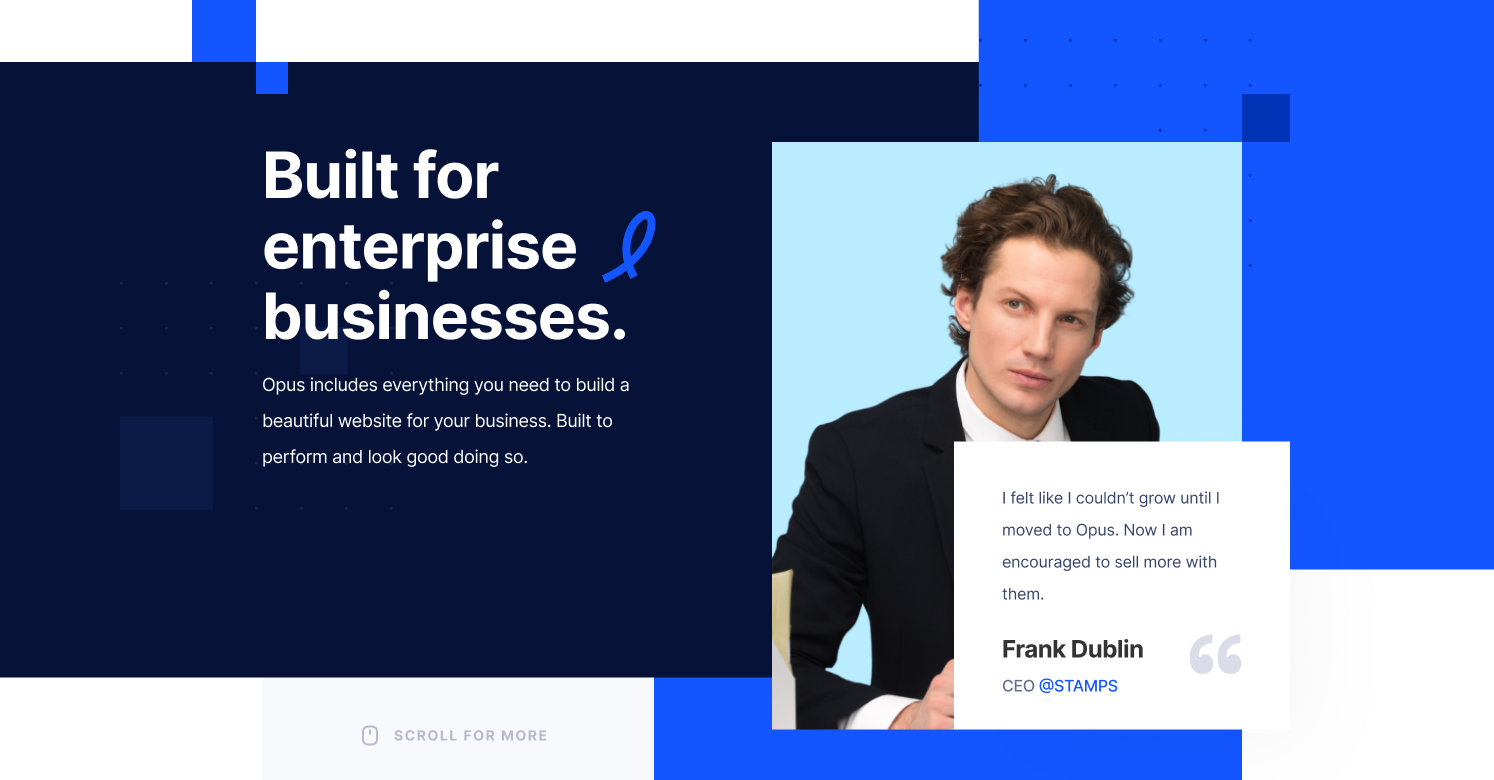
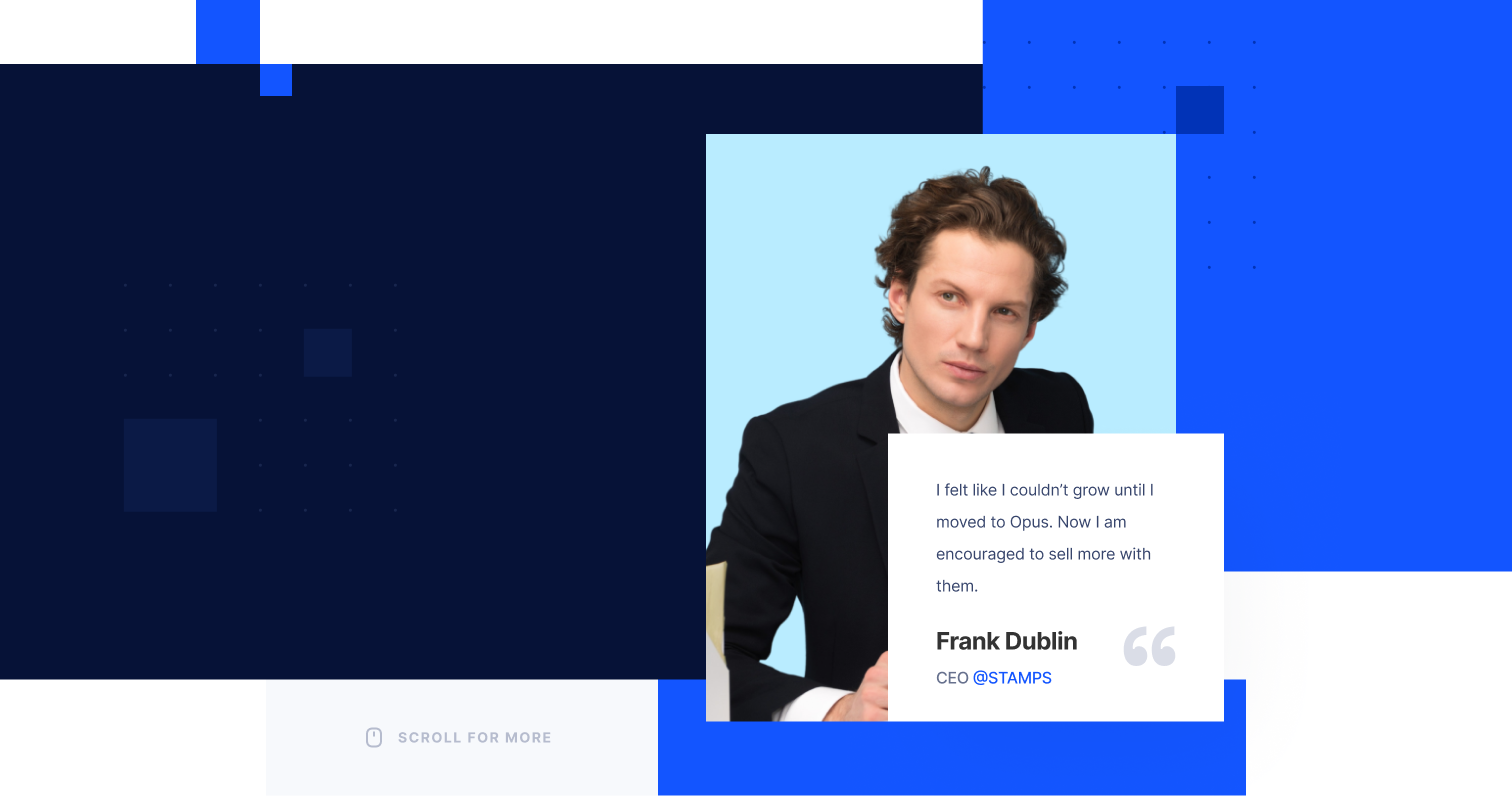
Update 5 files

diff --git a/src/Banner.js b/src/Banner.js
@@ -1,40 +1,55 @@
-import React from 'react'
-import banner from './images/banner.png'
+import React from "react";
+import banner from "./images/banner.png";
 
-import './banner.css';
+import "./banner.css";
 
 function Banner() {
-    return (
-        <div className='banner-head'>
-            <div className="banner">
-                <img src={banner} alt="banner-img" />
-
-                <div className="buttons">
-                    <button className="btn1">Learn More &#8594;</button>
-                    <a href='#' className='link'>Explore Pages</a>
-                </div>
-            </div>
-            <div className="mobile-banner">
-                <center>
-                    <div style={{ marginTop: "25%" }}>
-                        <h1 style={{ fontSize: "54.6px" }}>Built for</h1>
-                        <h1 style={{ fontSize: "54.6px" }}>enterprise</h1>
-                        <h1 style={{ fontSize: "54.6px" }}>businesses</h1>
-                    </div>
-                    <p style={{ fontSize: "18px", width: "329.67px", letterSpacing: "-0.36px", lineHeight: "36px", fontWeight: "400", textAlign: "center", marginTop: "5%" }}>Opus includes everything you need to build a beautiful website for your business. Built to perform and look good doing so.</p>
-                    <div>
-                        <div className="buttons">
-
-                            <button className="btn1">Contact Us &#8594;</button>
-                            <a href='#' className='link'>Explore Pages</a>
-
-                        </div>
-                    </div>
-                </center>
-            </div>
-
+  return (
+    <div className="banner-head">
+      <div className="banner">
+        <h1 style={{ marginTop: "140px"}}>Built for</h1>
+        <h1>enterprise</h1>
+        <h1>businesses</h1>
+        <div className="buttons">
+          <button className="btn1">Learn More &#8594;</button>
+          <a href="#" className="link">
+            Explore Pages
+          </a>
         </div>
-    );
+      </div>
+      <div className="mobile-banner">
+        <center>
+          <div style={{ marginTop: "25%" }}>
+            <h1 style={{ fontSize: "54.6px" }}>Built for</h1>
+            <h1 style={{ fontSize: "54.6px" }}>enterprise</h1>
+            <h1 style={{ fontSize: "54.6px" }}>businesses</h1>
+          </div>
+          <p
+            style={{
+              fontSize: "18px",
+              width: "329.67px",
+              letterSpacing: "-0.36px",
+              lineHeight: "36px",
+              fontWeight: "400",
+              textAlign: "center",
+              marginTop: "5%",
+            }}
+          >
+            Opus includes everything you need to build a beautiful website for
+            your business. Built to perform and look good doing so.
+          </p>
+          <div>
+            <div className="buttons">
+              <button className="btn1">Contact Us &#8594;</button>
+              <a href="#" className="link">
+                Explore Pages
+              </a>
+            </div>
+          </div>
+        </center>
+      </div>
+    </div>
+  );
 }
 
-export default Banner
+export default Banner;

diff --git a/src/sidebar.css b/src/sidebar.css
@@ -1,58 +1,57 @@
 .sidebar {
-    display: none;
+  display: none;
 }
 
 .burger-links {
-    width: 100vw;
-    text-align: center;
+  width: 100vw;
+  text-align: center;
+  cursor: pointer;
 }
 
 .burger-menu-items {
-    width: 100vw;
+  width: 100vw;
 
-    display: flex;
-    flex-direction: column;
-    align-items: center;
+  display: flex;
+  flex-direction: column;
+  align-items: center;
 }
 
 .burger-items {
-    width: 100vw;
-    padding-top: 20px;
-    padding-bottom: 20px;
-    border-bottom: 0.5px #061237 solid;
-    color: white;
-    font-weight: bold;
+  width: 100vw;
+  padding-top: 20px;
+  padding-bottom: 20px;
+  border-bottom: 0.5px #061237 solid;
+  color: white;
+  font-weight: bold;
 }
 
 .burger-items:hover {
-    background-color: white;
-    color: black;
+  background-color: white;
+  color: black;
 }
 
 .sidebar-on {
-    display: none;
+  display: none;
 }
 
 .contactus {
-    margin-top: 15px;
-    padding: 10px;
-    width: 95px;
-    border: none;
-    background-color: #1355FF;
-    color: white;
-    font-weight: bold;
+  margin-top: 15px;
+  padding: 10px;
+  width: 95px;
+  border: none;
+  background-color: #1355ff;
+  color: white;
+  font-weight: bold;
 }
 
 @media only screen and (max-width: 600px) {
-    .sidebar-on {
-        width: 100vw;
-        height: 250px;
-        background-color: #061237;
-    }
+  .sidebar-on {
+    width: 100vw;
+    height: 250px;
+    background-color: #061237;
+  }
 
-    .sidebar-on {
-        display: block;
-    }
-
-
+  .sidebar-on {
+    display: block;
+  }
 }

diff --git a/src/header.css b/src/header.css
@@ -1,49 +1,51 @@
 .logo {
-    padding: 10px;
-
+  padding: 10px;
 }
 
 .links {
-    display: flex;
-    width: 50%;
-    justify-content: space-evenly;
+  display: flex;
+  width: 50%;
+  justify-content: space-evenly;
+}
+.links p {
+  cursor: pointer;
 }
 
 .links a {
-    text-decoration: none;
-    color: #37456C;
+  text-decoration: none;
+  color: #37456c;
 }
 
 .head {
-    display: flex;
-    align-items: center;
-    justify-content: space-between;
+  display: flex;
+  align-items: center;
+  justify-content: space-between;
 }
 
 .btn {
-    background-color: #1355FF;
-    border: none;
-    padding: 10%;
-    color: white;
-    width: 108.67px;
-    height: 44px;
-    font-weight: bold;
+  background-color: #1355ff;
+  border: none;
+  padding: 10%;
+  color: white;
+  width: 108.67px;
+  height: 44px;
+  font-weight: bold;
 }
 
 .icon-button {
-    display: none;
+  display: none;
 }
 
 @media only screen and (max-width: 600px) {
-    .links {
-        display: none;
-    }
+  .links {
+    display: none;
+  }
 
-    .btn {
-        display: none;
-    }
+  .btn {
+    display: none;
+  }
 
-    .icon-button {
-        display: block;
-    }
+  .icon-button {
+    display: block;
+  }
 }

diff --git a/src/banner.css b/src/banner.css
@@ -1,16 +1,26 @@
-.banner img {
+.banner-head {
   width: 100%;
-  object-fit: contain;
+  height: 795.5px;
+}
+.banner {
+  width: 100%;
+  height: 795.5px;
+  background-image: url("images/banner.png");
+  background-size: cover;
+  background-repeat: no-repeat;
+}
+
+.banner h1 {
+  width: 368px;
+  font-weight: 700;
+  color: white;
+  font-size: 64px;
+  margin-left: 185px;
 }
 
 .buttons {
-  display: flex;
-  flex-wrap: wrap;
-  align-items: center;
-  position: absolute;
-  top: 65%;
-  left: 17%;
-  width: 30%;
+  margin-left: 185px;
+  margin-top: 20px;
 }
 
 .acc {
@@ -26,6 +36,7 @@
   color: white;
   margin-right: 30px;
   padding: 10px;
+  cursor: pointer;
 }
 
 .link {
@@ -56,6 +67,7 @@
   }
 
   .buttons {
+    margin-left: 0%;
     display: flex;
     flex-direction: column;
     align-items: center;
